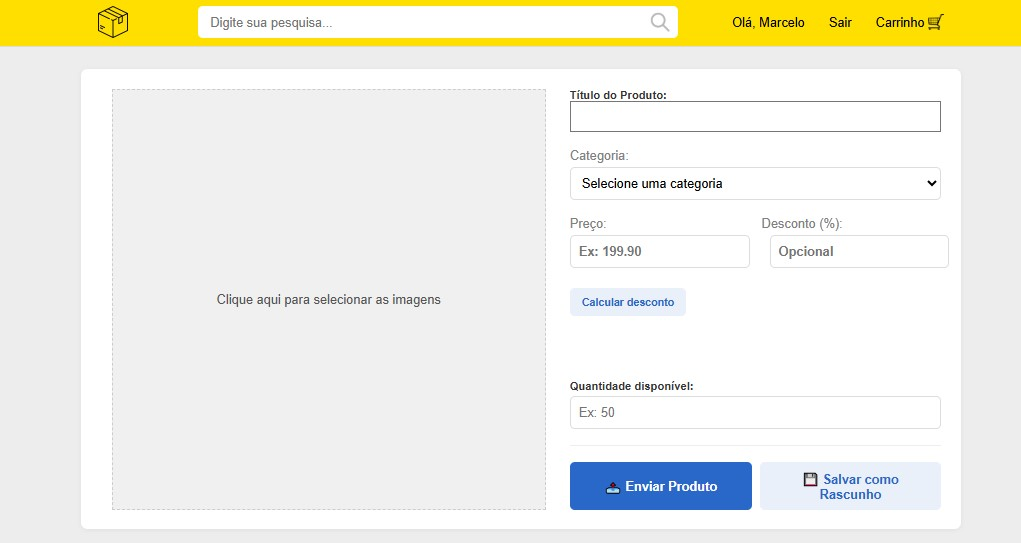
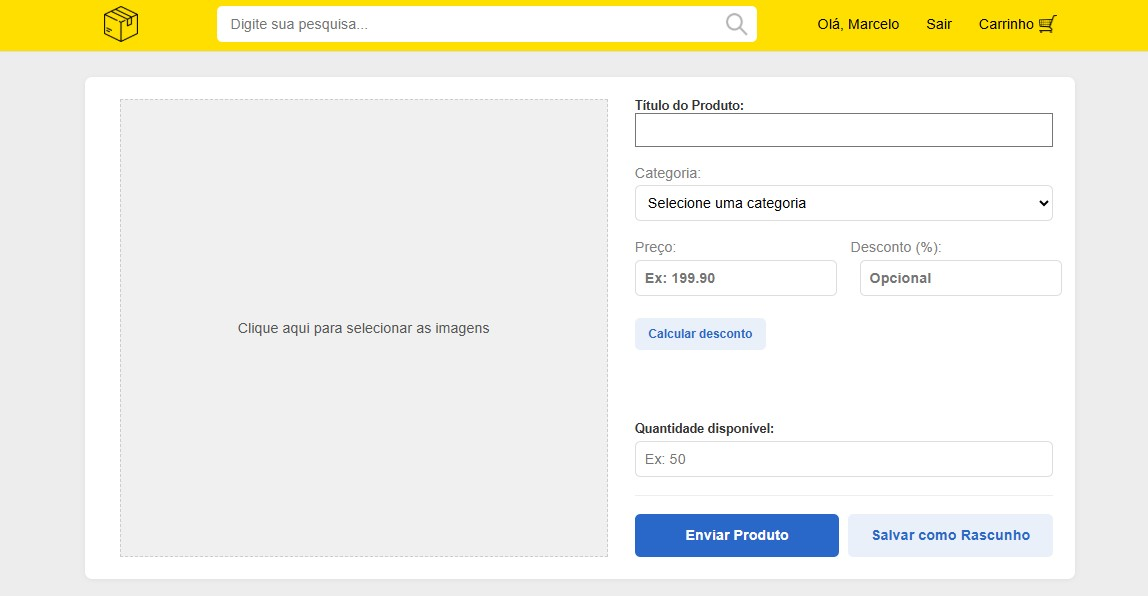
Update README

diff --git a/public/tela_produto_do_fornecedor.php b/public/tela_produto_do_fornecedor.php
@@ -300,12 +300,12 @@ $nome_usuario = explode(' ', $_SESSION['usuario_nome'] ?? 'Usuário')[0];
         </script>
 
         <div style="margin-top: auto; display: flex; gap: 10px; padding-top: 20px; border-top: 1px solid #eee;">
-          <button type="submit" style="flex: 1; background:#2968C8;color:white;padding:10px 15px;border:none;border-radius:6px;cursor:pointer; font-size: 16px; font-weight: 600;">
-            📤 Enviar Produto
+          <button type="submit" style="flex: 1; background:#2968C8;color:white;padding:10px 15px;border:none;border-radius:6px;cursor:pointer; font-size: 16px; font-weight: 600; min-height: 48px; display: flex; align-items: center; justify-content: center;">
+            Enviar Produto
           </button>
 
-          <button type="button" id="btn-salvar-rascunho" style="flex: 1; background: rgba(41, 104, 200, 0.1); color: #2968C8; padding: 10px 15px;border:none;border-radius:6px;cursor:pointer; font-size: 16px; font-weight: 600;">
-            💾 Salvar como Rascunho
+          <button type="button" id="btn-salvar-rascunho" style="flex: 1; background: rgba(41, 104, 200, 0.1); color: #2968C8; padding: 10px 15px;border:none;border-radius:6px;cursor:pointer; font-size: 16px; font-weight: 600; min-height: 48px; display: flex; align-items: center; justify-content: center;">
+            Salvar como Rascunho
           </button>
         </div>
       </div>
